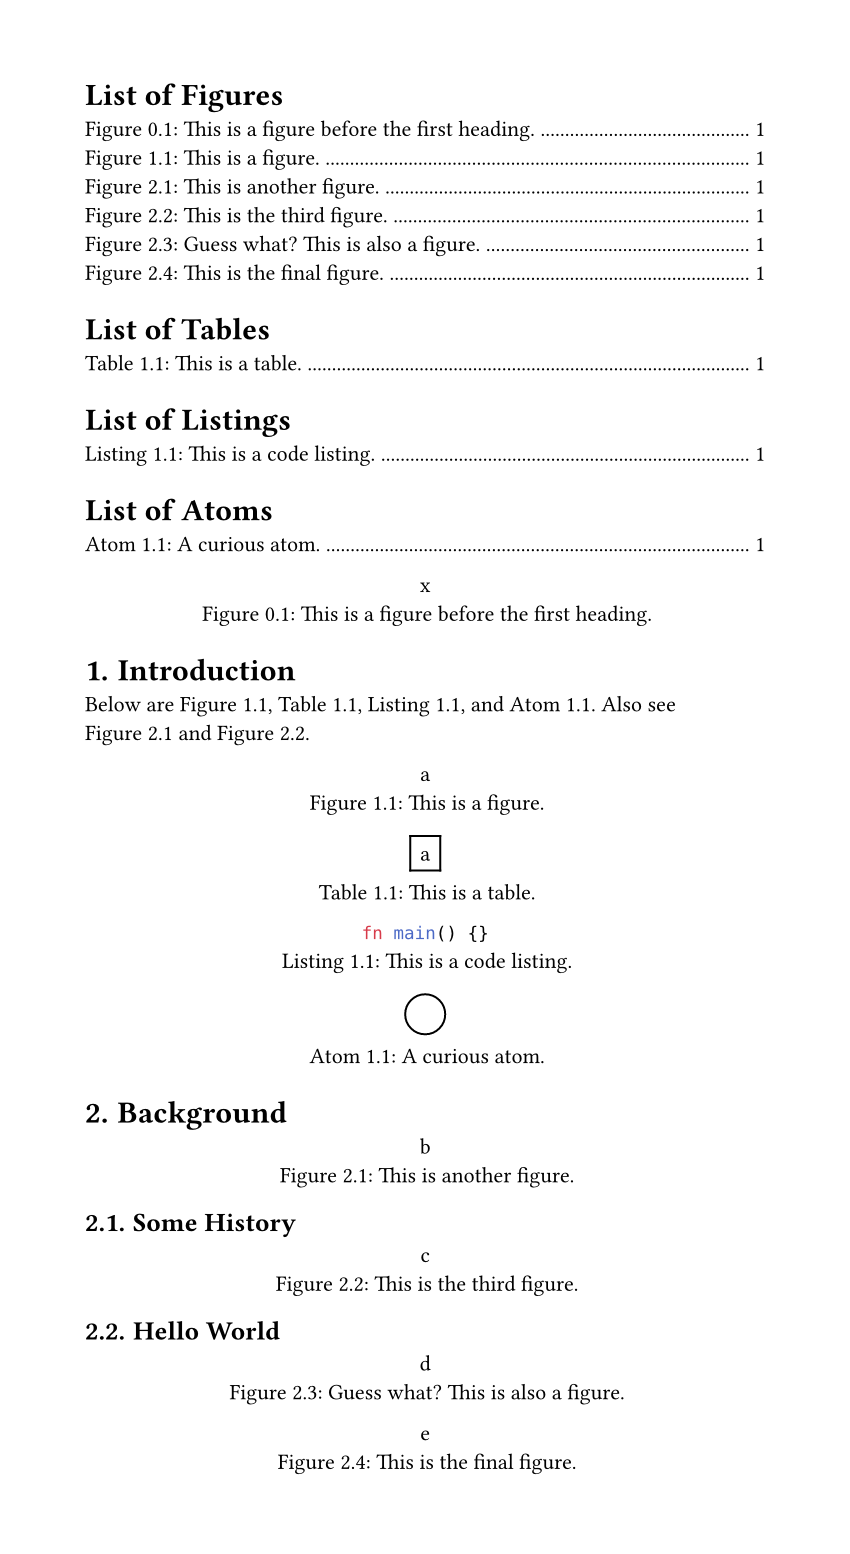
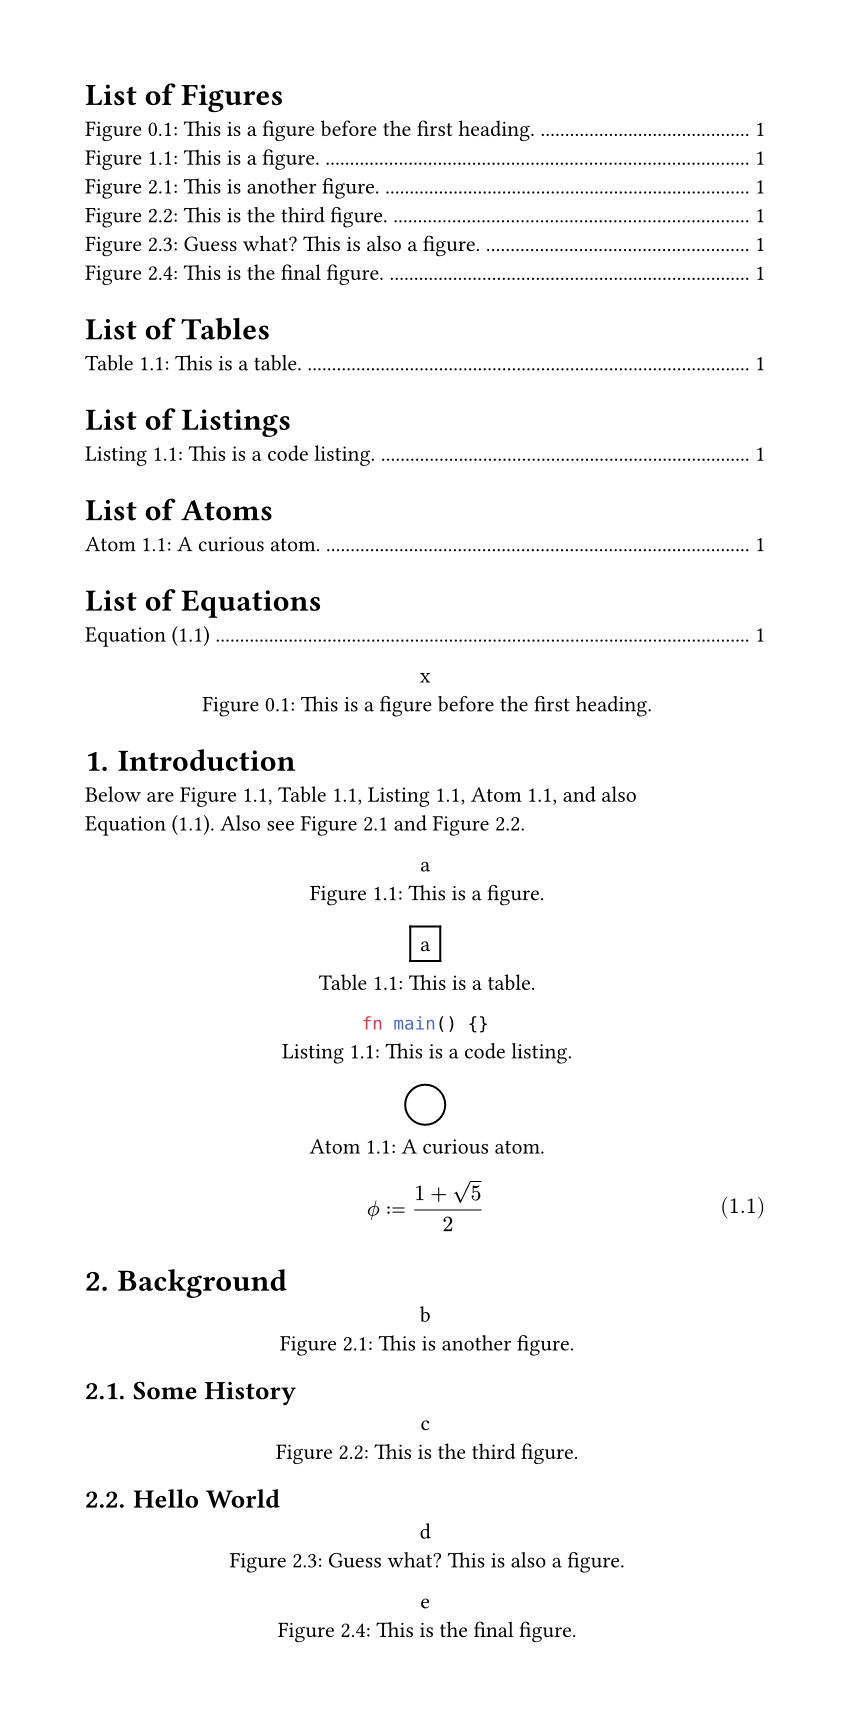
feat: add function for equation numbering
- closes #1
- based on work from @OrangeX4

diff --git a/README.md b/README.md
@@ -31,7 +31,7 @@ respectively. These new labels can be used for referencing without problems.
 
 ```typ
 // import the package
-#import "@preview/i-figured:0.1.0"
+#import "@preview/i-figured:0.2.0"
 
 // make sure you have some heading numbering set
 #set heading(numbering: "1.")
@@ -97,7 +97,7 @@ Show a figure with per-section numbering. To be used in a figure show rule like
 - `it`: [`content`] &mdash; The figure element from the show rule.
 - `level`: [`int`] &mdash; How many levels of the current heading counter should
   be added in front. Note that you can control this individually from the
-  `level` parameter on [`show-figure()`](#show-figure).
+  `level` parameter on [`reset-counters()`](#reset-counters).
 - `zero-fill`: [`bool`] &mdash; If `true` and assuming a `level` of `2`, a
   figure after a `1.` heading but before a `1.1.` heading will show `1.0.1` as
   numbering, else the middle zero is excluded. Note that if set to `false`, not
@@ -114,6 +114,38 @@ Show a figure with per-section numbering. To be used in a figure show rule like
   which don't have another prefix set.
 
 **Returns:** [`content`] &mdash; The modified figure.
+
+### `show-equation`
+
+Show a math equation with per-section numbering. To be used in a show rule like
+`#show math.equation: i-figured.show-equation`.
+
+```typ
+#let show-equation(
+  it,
+  level: 1,
+  zero-fill: true,
+  leading-zero: true,
+  numbering: "(1.1)",
+  prefix: "eqt:",
+  only-labeled: false,
+  unnumbered-label: "-",
+) = { .. }
+```
+
+**Arguments:**
+
+For the arguments `level`, `zero-fill`, `leading-zero`, and `numbering` refer to
+[`show-figure()`](#show-figure).
+
+- `it`: [`content`] &mdash; The equation element from the show rule.
+- `prefix`: [`str`] &mdash; The label prefix to use for all equations.
+- `only-labeled`: [`bool`] &mdash; Whether only equations with labels should be
+  numbered.
+- `unnumbered-label`: [`str`] &mdash; A label to explicitly disable numbering
+  for an equation.
+
+**Returns:** [`content`] &mdash; The modified equation.
 
 ### `outline`
 
